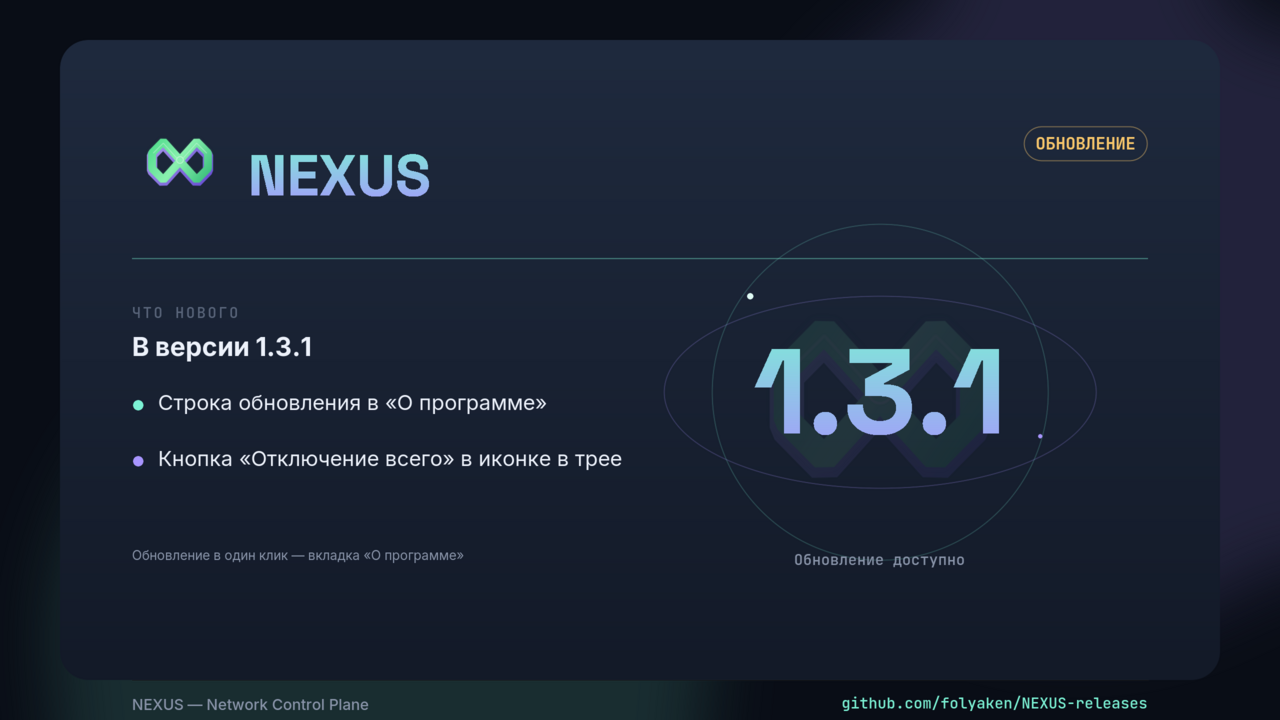
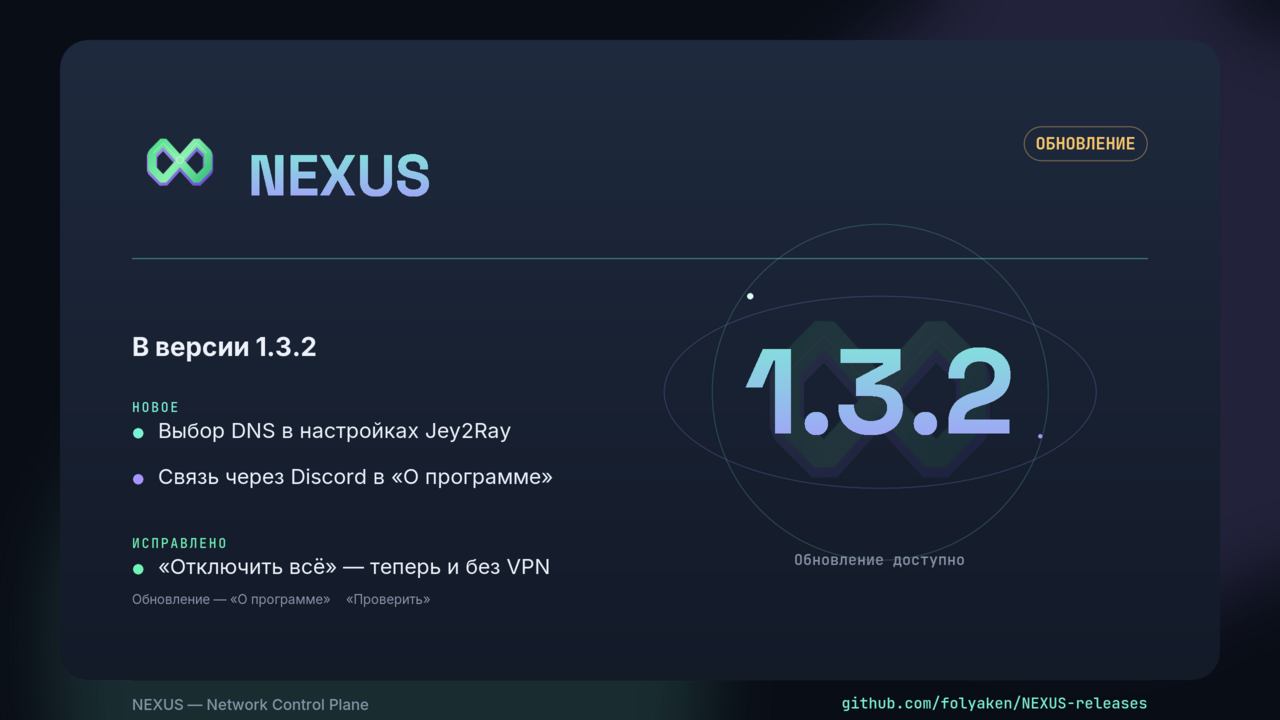
Update card and post for 1.3.2 release

diff --git a/tools/render_update.js b/tools/render_update.js
@@ -14,10 +14,15 @@ fs.mkdirSync(TMP, { recursive: true });
 fs.mkdirSync(path.dirname(OUT), { recursive: true });
 
 /* ================= EDIT THESE PER RELEASE ================= */
-const VERSION = '1.3.1';
-const CHANGES = [
-  { c: '#7cf2d5', t: 'Строка обновления в «О программе»' },
-  { c: '#a895ff', t: 'Кнопка «Отключение всего» в иконке в трее' },
+const VERSION = '1.3.2';
+const GROUPS = [
+  { label: 'НОВОЕ', labelColor: '#7cf2d5', items: [
+    { c: '#7cf2d5', t: 'Выбор DNS в настройках Jey2Ray' },
+    { c: '#a895ff', t: 'Связь через Discord в «О программе»' },
+  ] },
+  { label: 'ИСПРАВЛЕНО', labelColor: '#71f4b8', items: [
+    { c: '#71f4b8', t: '«Отключить всё» — теперь и без VPN' },
+  ] },
 ];
 /* ============================================================ */
 
@@ -134,14 +139,19 @@ over(canvas, tmp('_urule'), LX, 258, canvas);
 
 /* ---- left column: "что нового" ---- */
 A = [canvas];
-txt(LX, 318, 15, F.monoM, C.muted2, 'ЧТО НОВОГО', 1.8);
-txt(LX, 356, 26, F.interB, C.text, 'В версии 1.3.1');
-CHANGES.forEach((f, i) => {
-  const y = 410 + i * 56;
-  fill(f.c); stroke('none'); circle(LX + 6, y - 5, 5);
-  txt(LX + 26, y, 21, F.interR, C.text, f.t);
+txt(LX, 356, 26, F.interB, C.text, 'В версии 1.3.2');
+let gy = 412;
+GROUPS.forEach((grp) => {
+  txt(LX, gy, 13, F.monoM, grp.labelColor, grp.label, 1.6);
+  gy += 26;
+  grp.items.forEach((f) => {
+    fill(f.c); stroke('none'); circle(LX + 6, gy - 5, 5);
+    txt(LX + 26, gy, 21, F.interR, C.text, f.t);
+    gy += 46;
+  });
+  gy += 18;
 });
-txt(LX, 560, 13, F.interR, C.muted, 'Обновление в один клик — вкладка «О программе»');
+txt(LX, 604, 13, F.interR, C.muted, 'Обновление — «О программе» → «Проверить»');
 run(A, canvas);
 
 /* ---- right: orbit + big version ---- */

diff --git a/promo/update-post.md b/promo/update-post.md
@@ -1,17 +1,20 @@
-# Пост об обновлении (вручную)
+# Пост об обновлении NEXUS 1.3.2 (вручную)
 
 Прикрепите картинку `nexus-update-nobtn.png` к посту ниже.
 
 ---
 
-🔄 **NEXUS 1.3.1 — обновление доступно!**
+🚀 NEXUS 1.3.2
 
-Что нового:
-• Новая строка обновления в «О программе» — сразу видно, когда вышла свежая версия
-• Новая кнопка «Отключение всего» в иконке в трее — один клик отключает VPN и все модули
+✨ Новое
+— Выбор DNS в настройках Jey2Ray: Cloudflare, Google, AdGuard, Quad9 или свой адрес. Провайдер перестаёт видеть, какие сайты вы открываете, и часть блокировок отваливается
+— Связь через Discord в разделе «О программе»
 
-Как обновиться:
-• В приложении: «О программе» → «Проверить обновления»
-• Или скачать установщик: https://github.com/folyaken/NEXUS-releases/releases
+🛠 Исправлено
+— «Отключить всё» в меню у часов работает и когда включены только модули, без VPN
 
-#NEXUS #Update
+⬇ Обновиться
+«О программе» → «Проверить» → «Скачать» → «Перезапустить и установить»
+github.com/folyaken/NEXUS-releases/releases/latest
+
+#nexus #обновление
